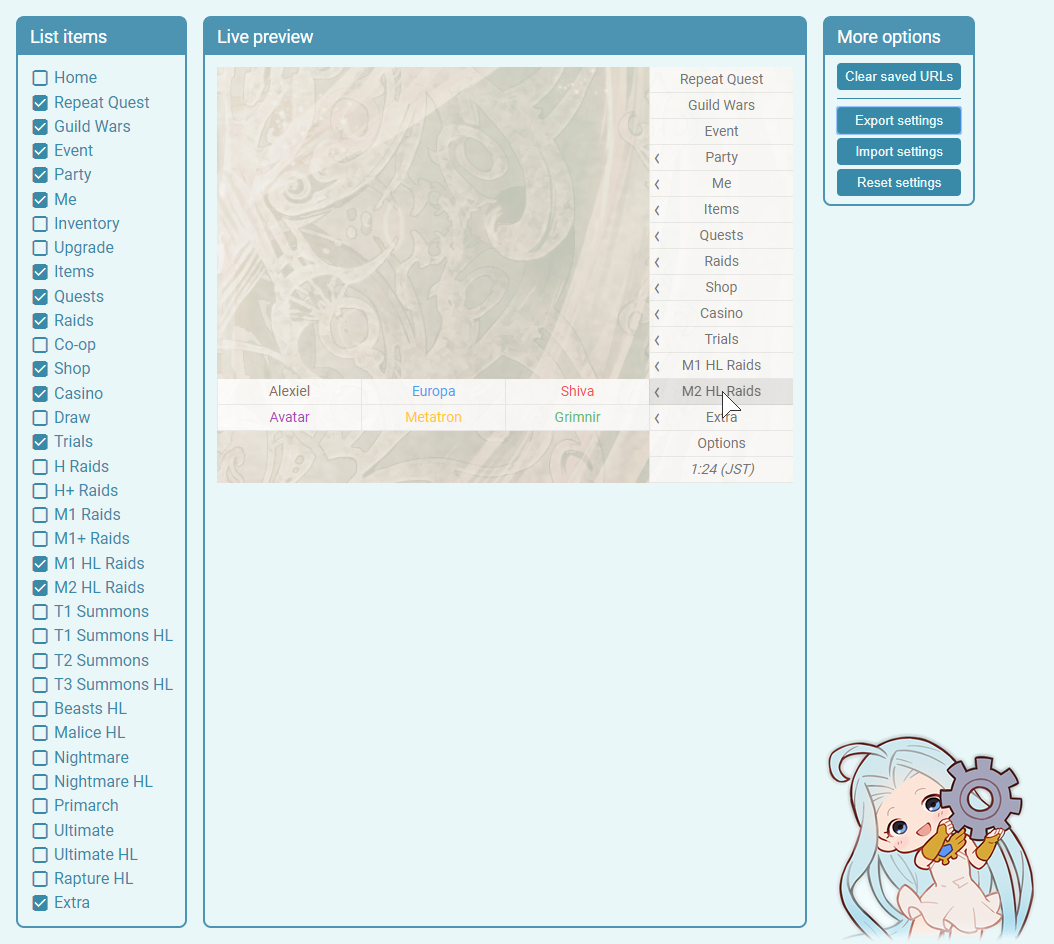
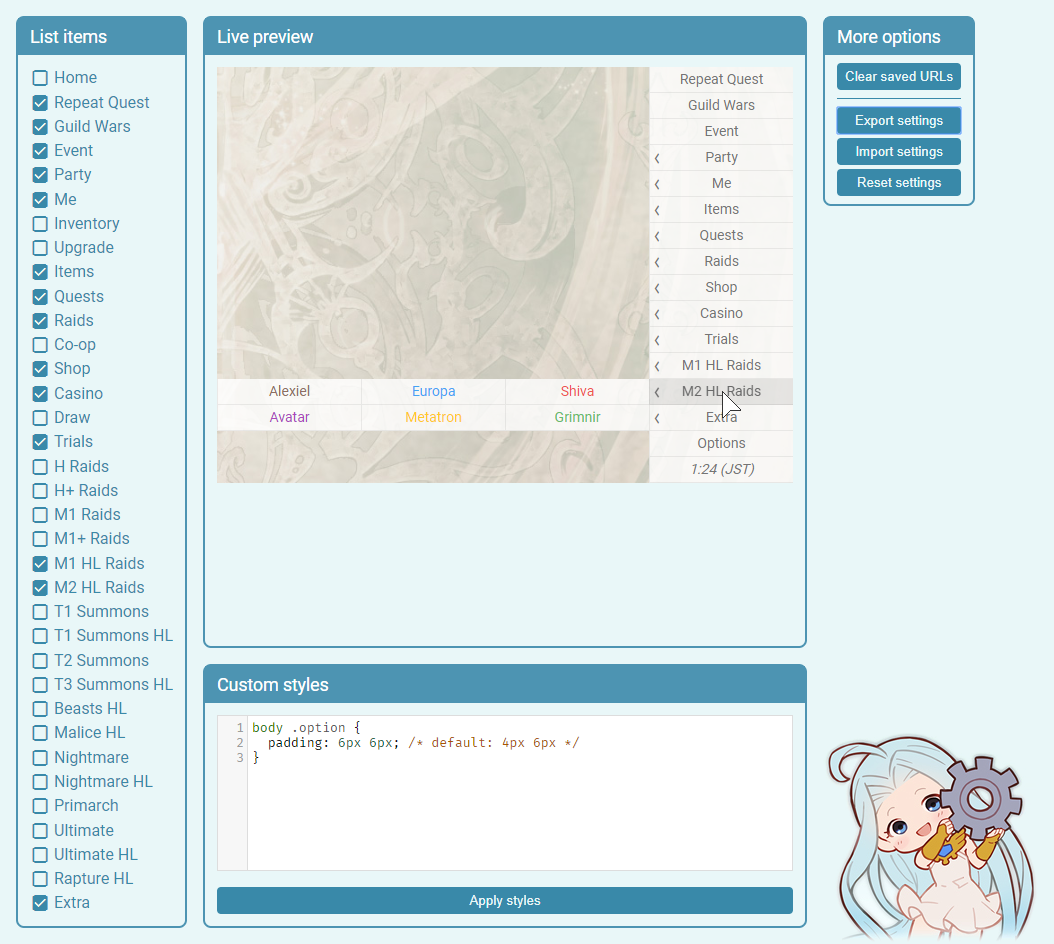
Added style customization to the readme

Changed region(s): [[0.1822, 0.6758, 0.7894, 0.7987], [0.1822, 0.9216, 0.759, 0.9831]]

diff --git a/readme.md b/readme.md
@@ -63,6 +63,8 @@ _NOTE:_ Ocasionally Chrome may think the reimported extension is a differnet one
 
 You can select which menu items you want to see by tapping the "Options" menu item in the extension's popup. You can also export and import your settings, as well as reset them to default.
 
+You can also customize the extension styles, but you will need knowledge of CSS.
+
 ![Options](readme_assets/options.png)
 
 Additionally, you can configure the extension shortcuts under the URL [chrome://extensions/shortcuts](chrome://extensions/shortcuts)
